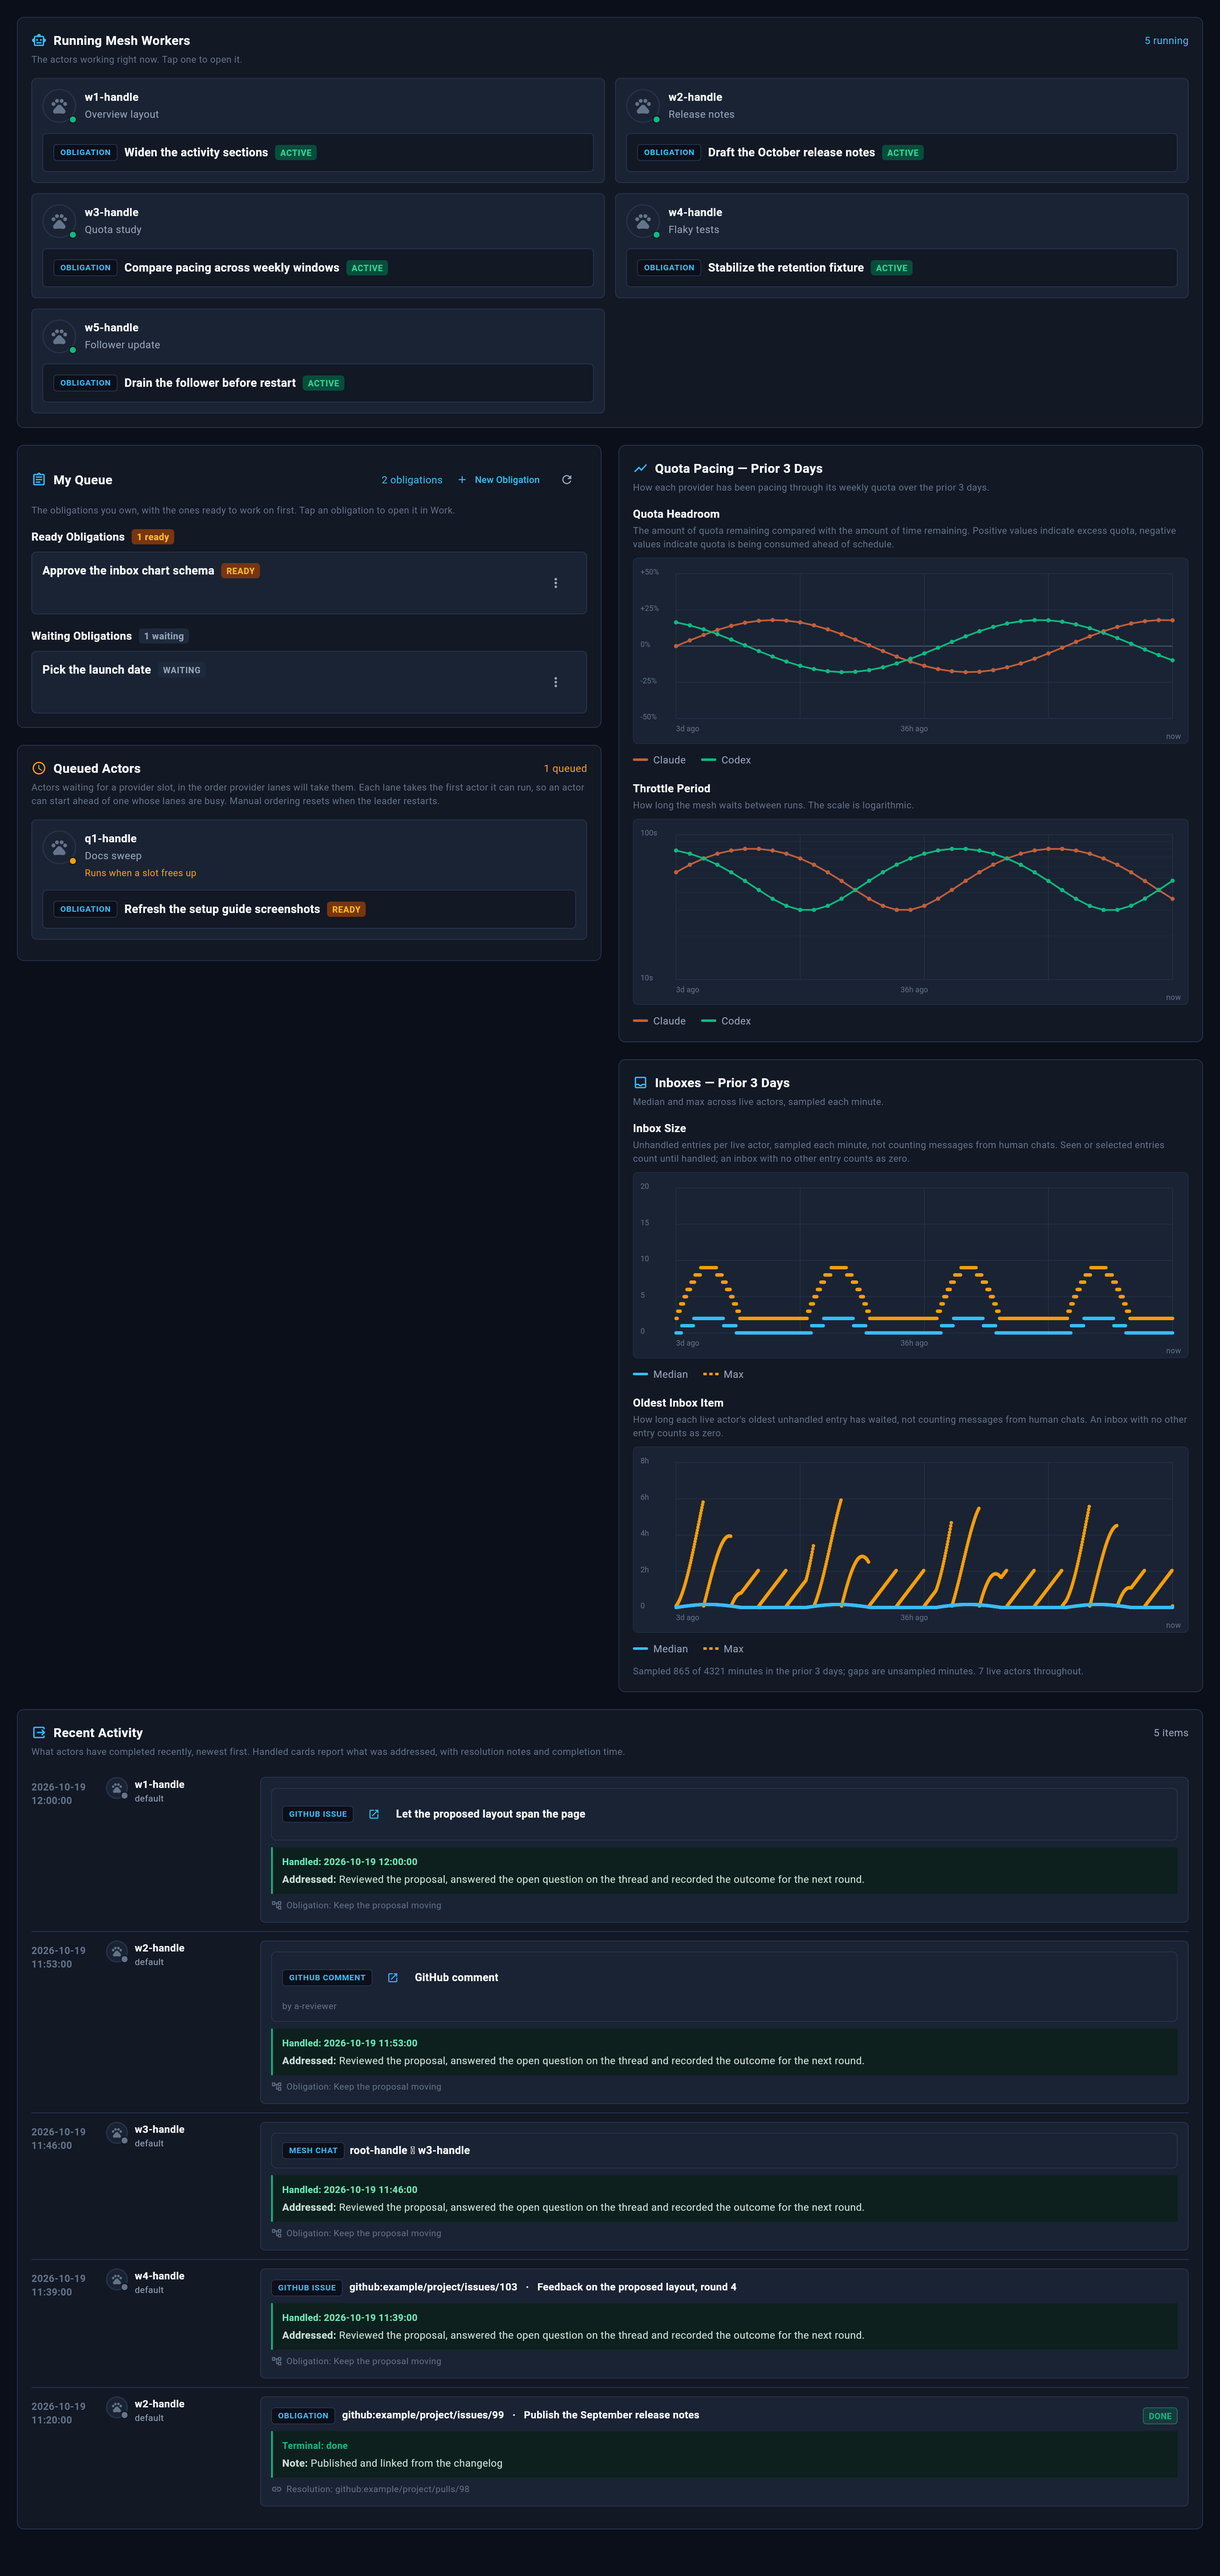
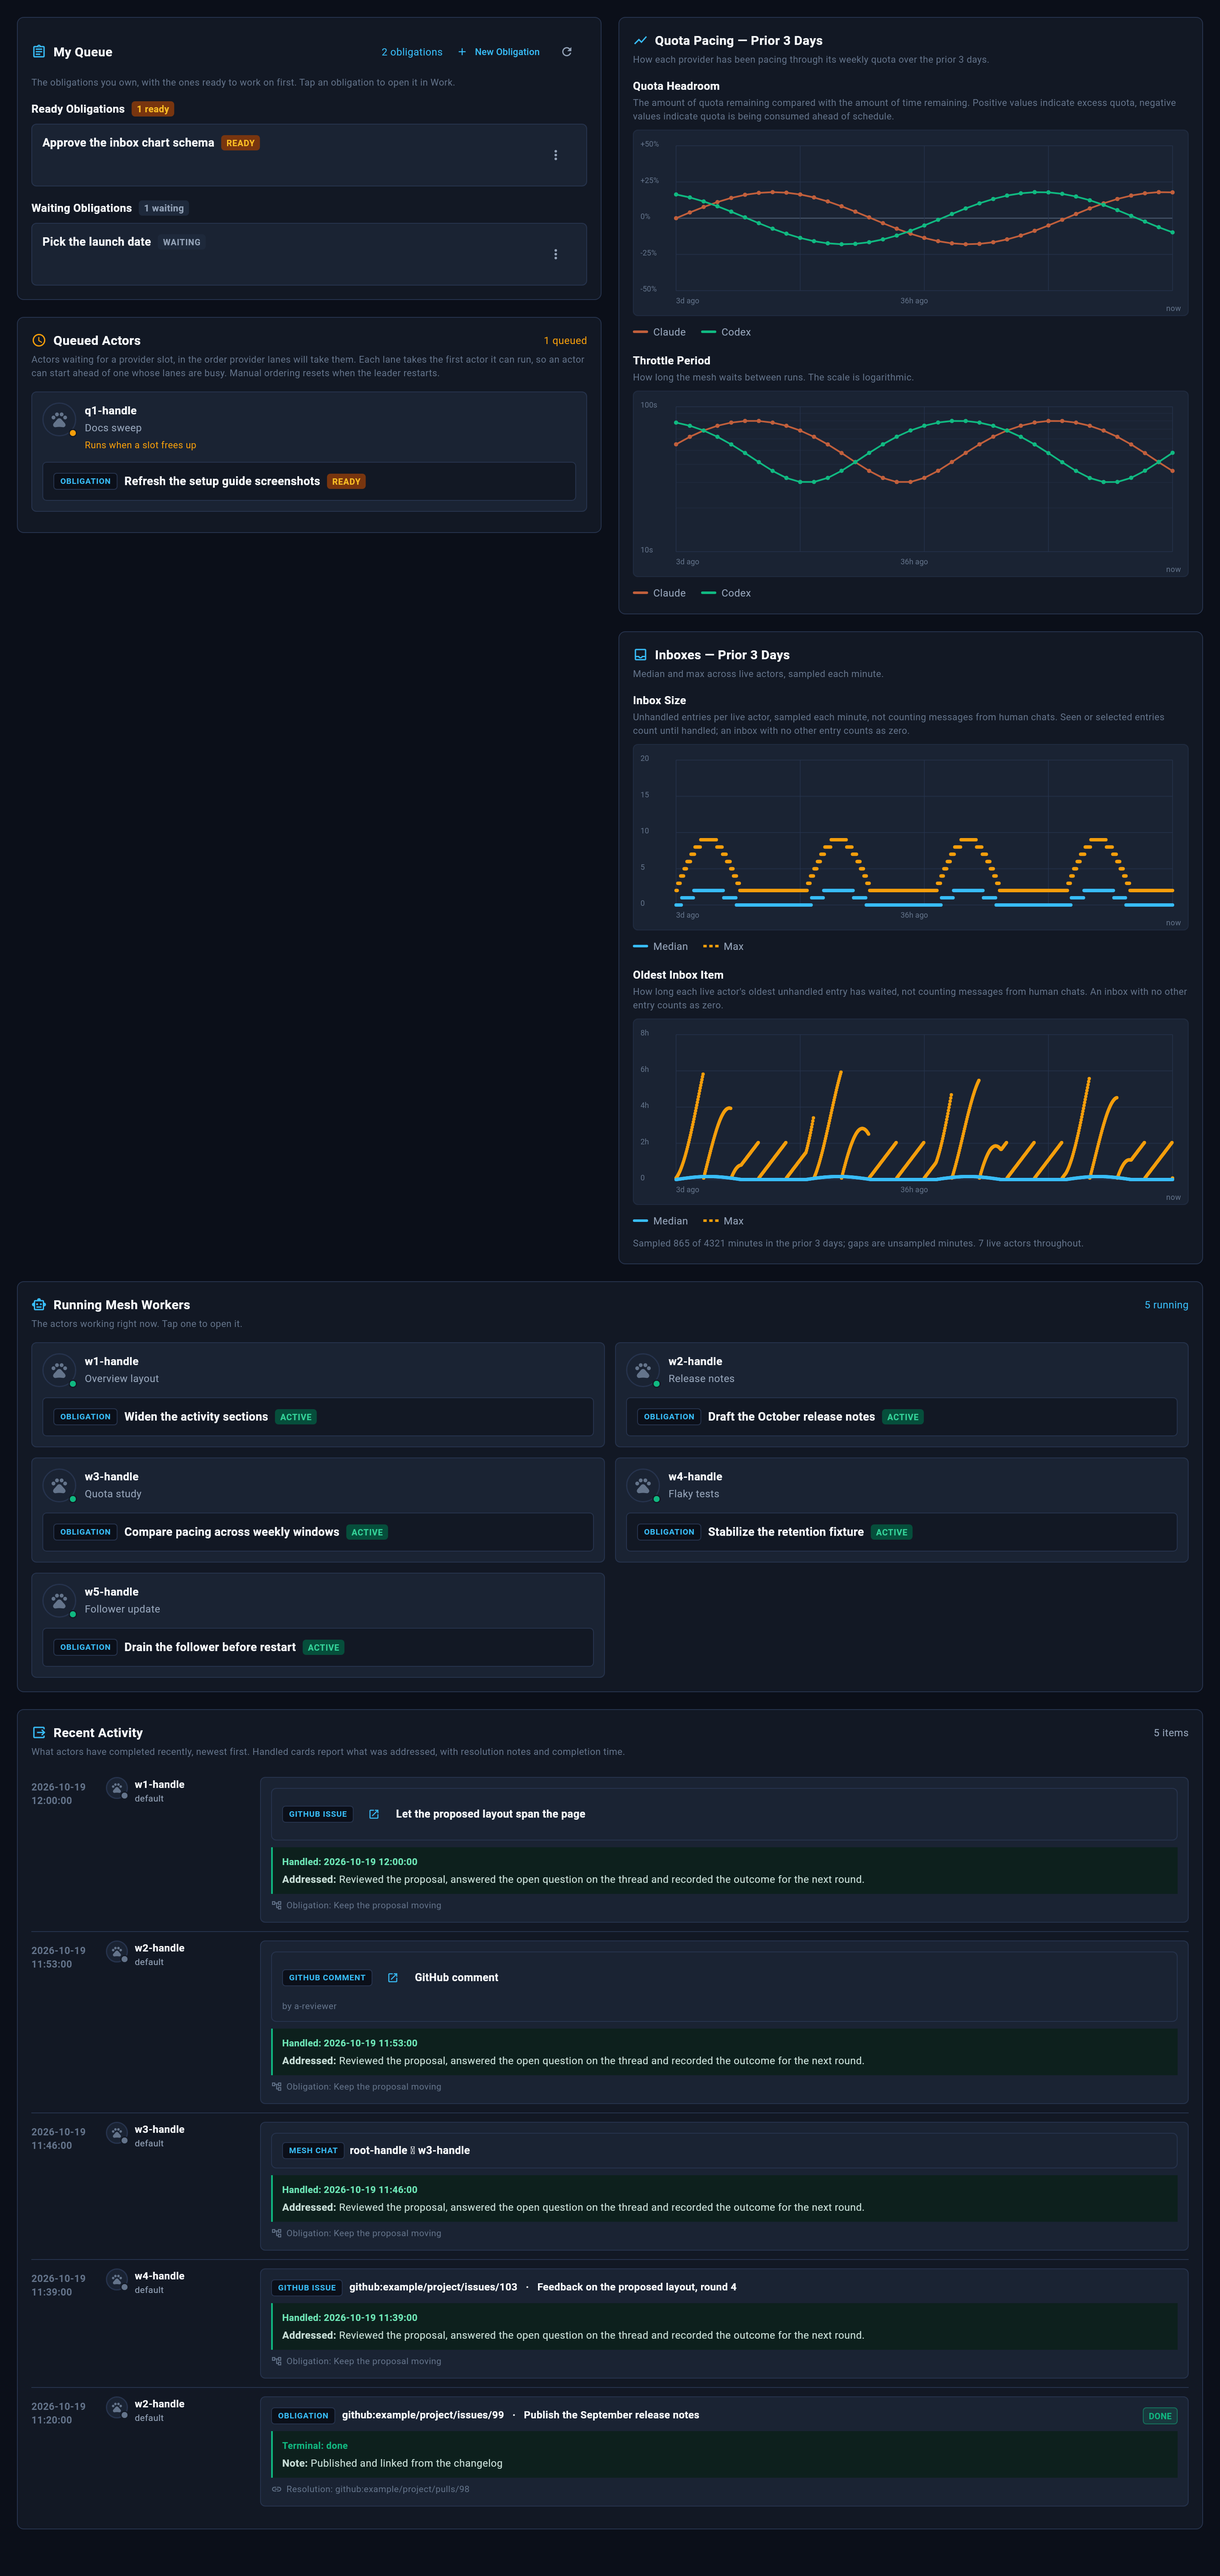
fix(dashboard): keep the Overview columns on top, Running below (#1234)
The operator rejected the desktop reorder on #1235: moving Running above
the columns was not a reasonable reading of a request to span the width.
Per their direction, My Queue and Queued Actors stay beside the charts at
the top, with Running below that section and Recent Activity last.

Also drops two formatter-only re-wraps in My Queue that the request never
called for. The phone row repair stays, as the operator confirmed.

diff --git a/packages/rusa/flutter_dashboard/lib/widgets/overview_tab.dart b/packages/rusa/flutter_dashboard/lib/widgets/overview_tab.dart
@@ -155,9 +155,9 @@ class _OverviewTabState extends State<OverviewTab> {
     );
   }
 
-  /// Wide screens span Running Mesh Workers above, and Recent Activity below, My
-  /// Queue and Queued Actors beside the charts (#1018, #1234); phone-sized
-  /// displays stack the work first, then the charts.
+  /// Wide screens keep My Queue and Queued Actors beside the charts (#1018),
+  /// then span Running Mesh Workers and Recent Activity below them (#1234);
+  /// phone-sized displays stack the work first, then the charts.
   Widget _buildWorkAndCharts() {
     return LayoutBuilder(
       builder: (context, constraints) {
@@ -180,7 +180,6 @@ class _OverviewTabState extends State<OverviewTab> {
           return column([myQueue, running, queued, recentActivity, ...charts]);
         }
         return column([
-          running,
           Row(
             crossAxisAlignment: CrossAxisAlignment.start,
             children: [
@@ -189,6 +188,7 @@ class _OverviewTabState extends State<OverviewTab> {
               Expanded(child: column(charts)),
             ],
           ),
+          running,
           recentActivity,
         ]);
       },
@@ -600,12 +600,7 @@ class _OverviewTabState extends State<OverviewTab> {
                         ],
                       ),
                       const SizedBox(height: 8),
-                      _buildQueueList(
-                        ready,
-                        blockerMap,
-                        ancestorMap,
-                        isReadyList: true,
-                      ),
+                      _buildQueueList(ready, blockerMap, ancestorMap, isReadyList: true),
                       if (waiting.isNotEmpty) const SizedBox(height: 16),
                     ],
                     if (waiting.isNotEmpty) ...[
@@ -646,12 +641,7 @@ class _OverviewTabState extends State<OverviewTab> {
                         ],
                       ),
                       const SizedBox(height: 8),
-                      _buildQueueList(
-                        waiting,
-                        blockerMap,
-                        ancestorMap,
-                        isReadyList: false,
-                      ),
+                      _buildQueueList(waiting, blockerMap, ancestorMap, isReadyList: false),
                       if (scheduled.isNotEmpty) const SizedBox(height: 16),
                     ],
                     if (scheduled.isNotEmpty) ...[

diff --git a/packages/rusa/flutter_dashboard/test/overview_tab_test.dart b/packages/rusa/flutter_dashboard/test/overview_tab_test.dart
@@ -264,7 +264,7 @@ void main() {
 
     // The narrowest wide layout, where the row columns leave the least room.
     testWidgets(
-      'wide: both sections span the content width around the columns',
+      'wide: both sections span the content width below the columns',
       (tester) async {
         await tester.runAsync(() async {
           final store = await pumpOverview(tester, const Size(740, 2400));
@@ -285,10 +285,14 @@ void main() {
           expect(queued.left, closeTo(myQueue.left, 1));
           expect(queued.right, closeTo(myQueue.right, 1));
 
-          expect(running.bottom, lessThan(myQueue.top));
-          expect(running.bottom, lessThan(quota.top));
-          expect(recent.top, greaterThan(queued.bottom));
-          expect(recent.top, greaterThan(quota.bottom));
+          // The columns stay on top, then Running, then Recent Activity.
+          final charts = tester.getRect(
+            find.byKey(const Key('overview-inbox-metrics')),
+          );
+          expect(myQueue.top, lessThan(queued.top));
+          expect(running.top, greaterThan(queued.bottom));
+          expect(running.top, greaterThan(charts.bottom));
+          expect(recent.top, greaterThan(running.bottom));
 
           // Rows keep their when and who columns beside a readable card.
           final row = rowParts(tester, store);
